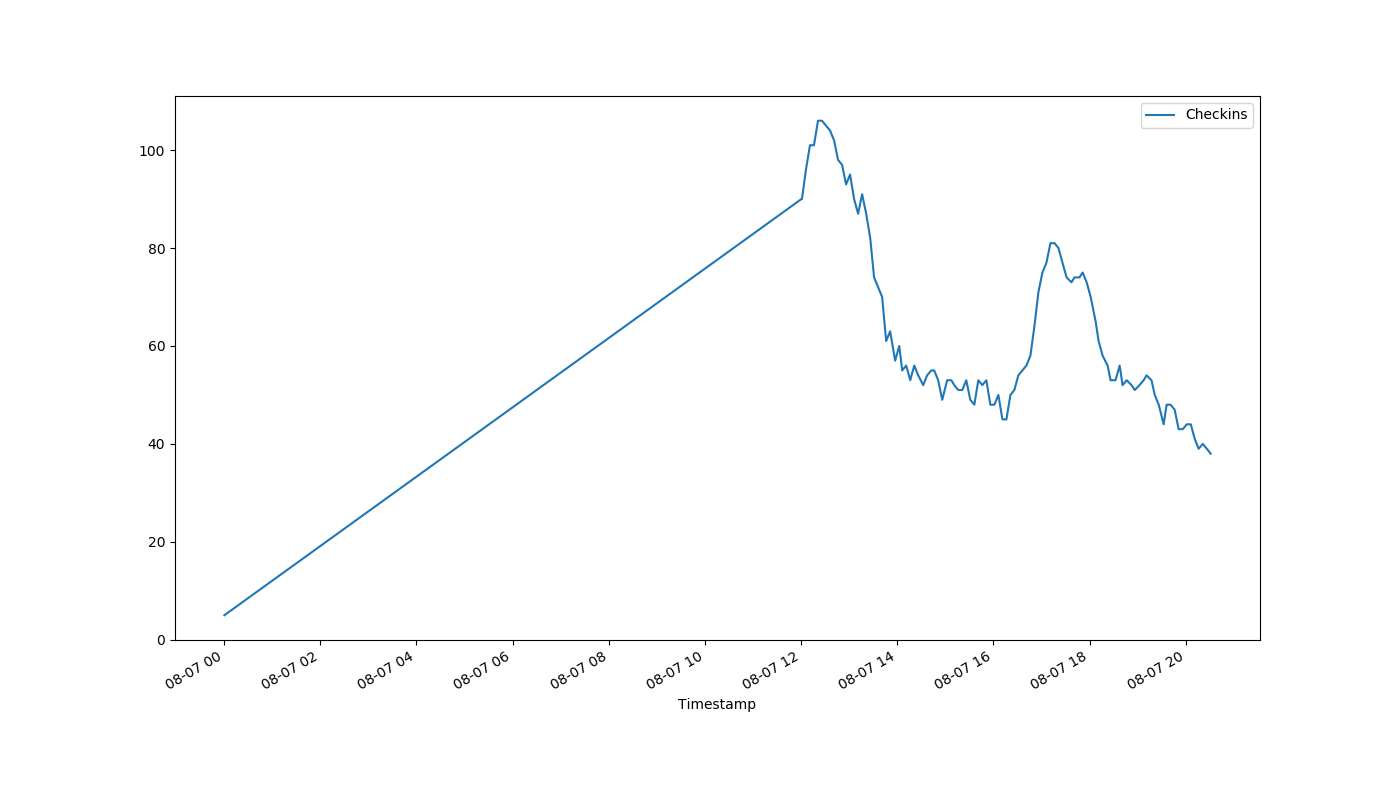
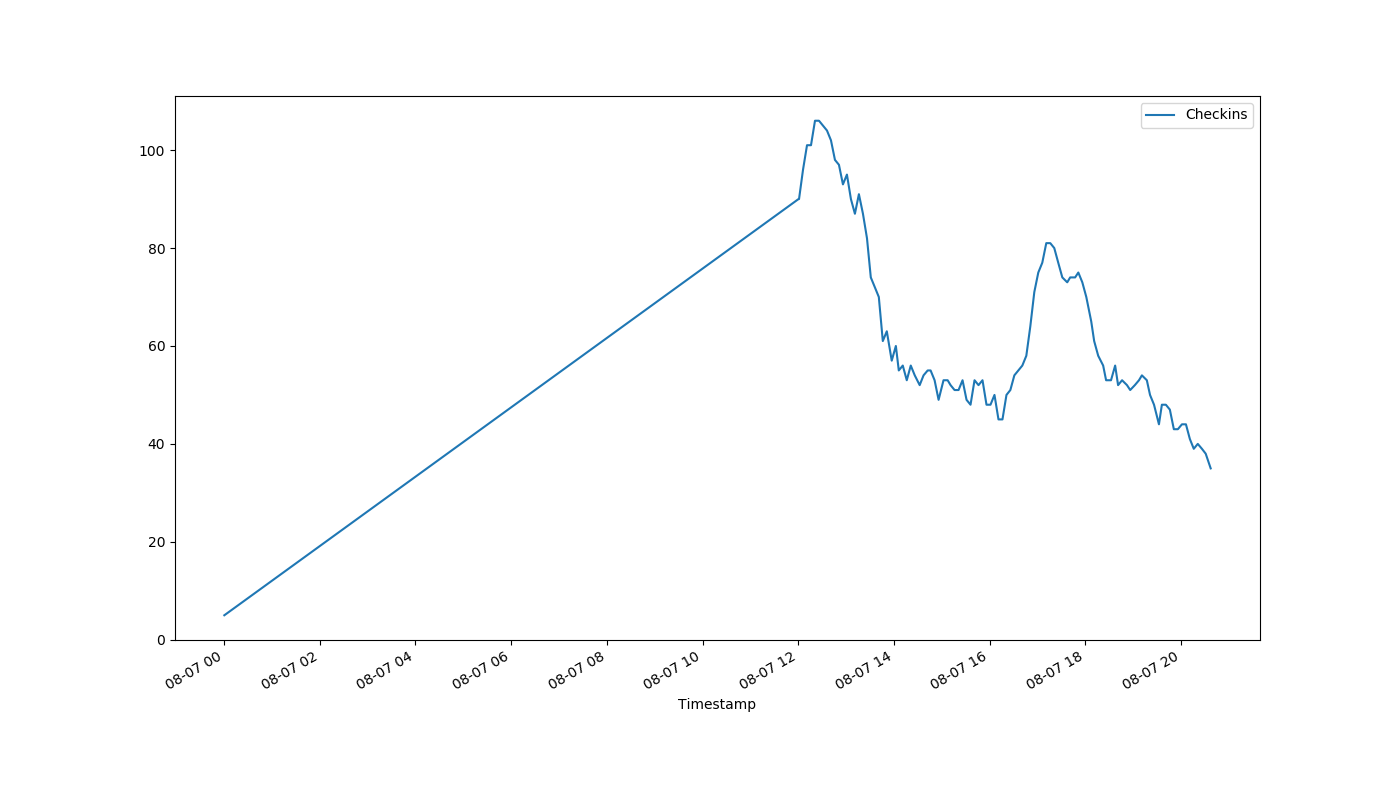
auto-Aug-07-20:39:34

diff --git a/index.html b/index.html
@@ -1,1 +1,1 @@
-<!DOCTYPE html><html><head><meta http-equiv="refresh" content="30"><link rel='stylesheet' href='holmcurrent.css'></head><body><p id='count'>-1</p><div id='graph-wrap'><img id='graph' src='holmgraph-Aug-07.png'></div><p id='updated'>Last updated 20:37:09 / 20:36:03</p></body></html>
+<!DOCTYPE html><html><head><meta http-equiv="refresh" content="30"><link rel='stylesheet' href='holmcurrent.css'></head><body><p id='count'>35</p><div id='graph-wrap'><img id='graph' src='holmgraph-Aug-07.png'></div><p id='updated'>Last updated 20:38:10 / 20:37:16</p></body></html>
